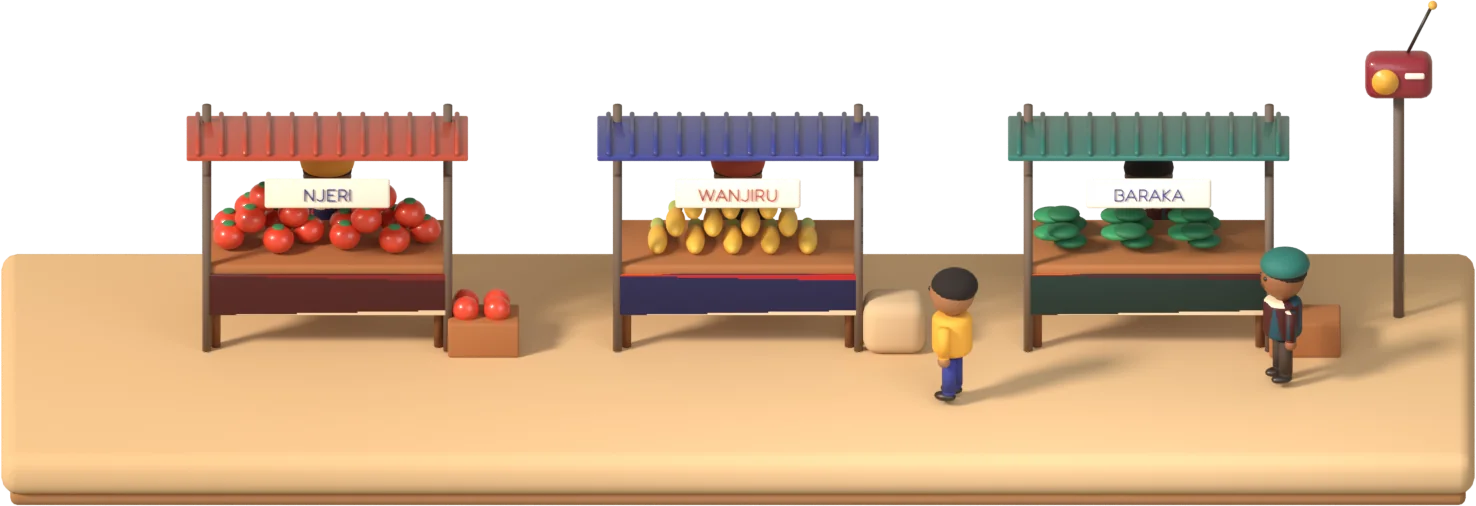
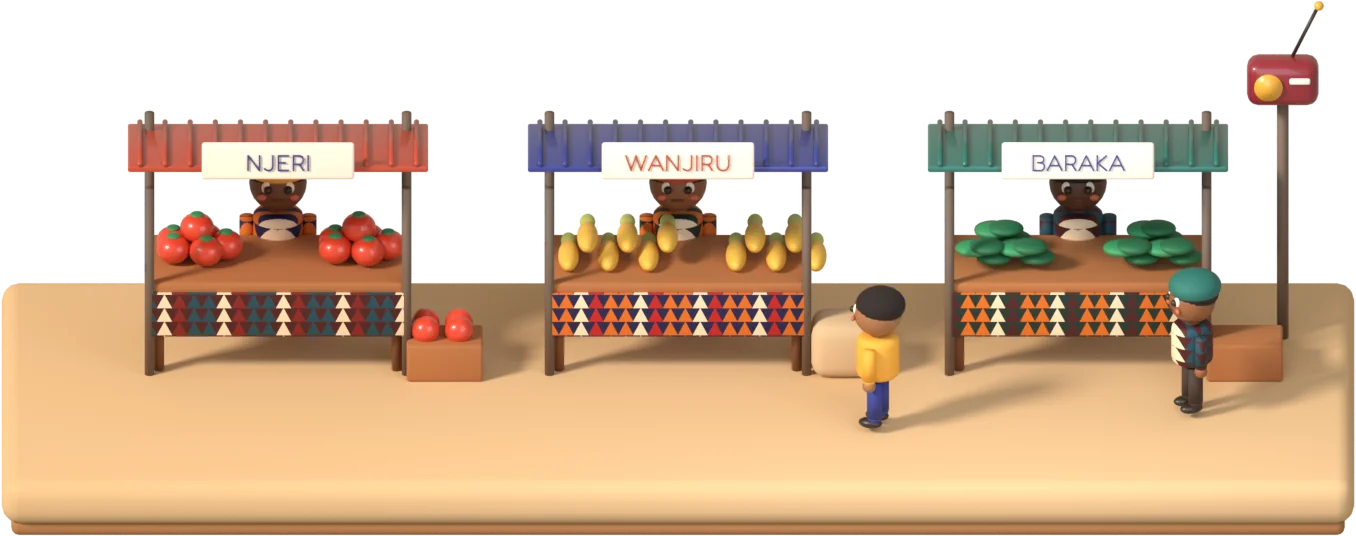
app: market street v2 art (owners visible, readable signs, kitenge), flag still off

Changed region(s): [[0.0, 0.0889, 1.0, 0.8004], [0.9912, 0.9486, 1.0, 1.0], [0.9602, 0.0, 0.9912, 0.0593]]

diff --git a/app/lib/run/market_street.dart b/app/lib/run/market_street.dart
@@ -20,18 +20,20 @@ const kStreetWalk = 'assets/street/walk.webp';
 /// the frame after this, so the trader always arrives within 0.8 s.
 const kStreetWalkMs = 750;
 
-// Geometry of the Blender render (soft clay diorama), as fractions of the
-// plate's width and height. Measured from the scene's camera, so the sprite
+// Geometry of the v2 Blender render (market_v2.blend, plate_geometry.json),
+// re-expressed for plate.webp, which is v2_plate.png cropped to its visible
+// pixels (x 22..1378, y 70..606 of 1400x636). All values are fractions of the
+// plate's width and height, projected from the scene's camera, so the sprite
 // stands on the same ground line and at the same scale as the stall owners.
-const _plateAspect = 1476 / 506;
-const _pathY = .8097; // feet line of the walking path
-const _startX = .367; // where the trader stands when the run starts
+const _plateAspect = 1356 / 536;
+const _pathY = .7449; // feet line of the walking path
+const _startX = .3877; // where the trader stands when the run starts
 const _frames = 12; // walk cycle, facing right
 const _frameAspect = 84 / 141; // one frame of walk.webp
-const _spriteH = .2981; // frame height / plate height
-const _feetX = .5536, _feetY = .984; // feet inside a frame
+const _spriteH = .2423; // frame height / plate height (character: .2320)
+const _feetX = .5536, _feetY = .9814; // feet inside a frame
 const _frameMs = 33; // about 30 frames a second while walking
-const _longestWalk = .7783 - .2217; // Njeri to Baraka
+const _longestWalk = .7950 - .2050; // Njeri to Baraka
 
 class StreetStall {
   const StreetStall(this.good, this.owner, this.x);
@@ -48,9 +50,9 @@ class StreetStall {
 }
 
 const streetStalls = [
-  StreetStall('tomato', 'Njeri', .2217),
+  StreetStall('tomato', 'Njeri', .2050),
   StreetStall('maize', 'Wanjiru', .5),
-  StreetStall('sukuma', 'Baraka', .7783),
+  StreetStall('sukuma', 'Baraka', .7950),
 ];
 
 /// The street: a pre-rendered plate, three tappable stalls and the player's
@@ -161,10 +163,10 @@ class _MarketStreetState extends State<MarketStreet>
                   ),
                   for (final s in streetStalls)
                     Positioned(
-                      left: (s.x - .1) * w,
-                      width: .2 * w,
-                      top: .16 * h,
-                      height: .78 * h,
+                      left: (s.x - .11) * w,
+                      width: .22 * w,
+                      top: .18 * h,
+                      height: .76 * h,
                       child: Semantics(
                         button: true,
                         label: s.label,
